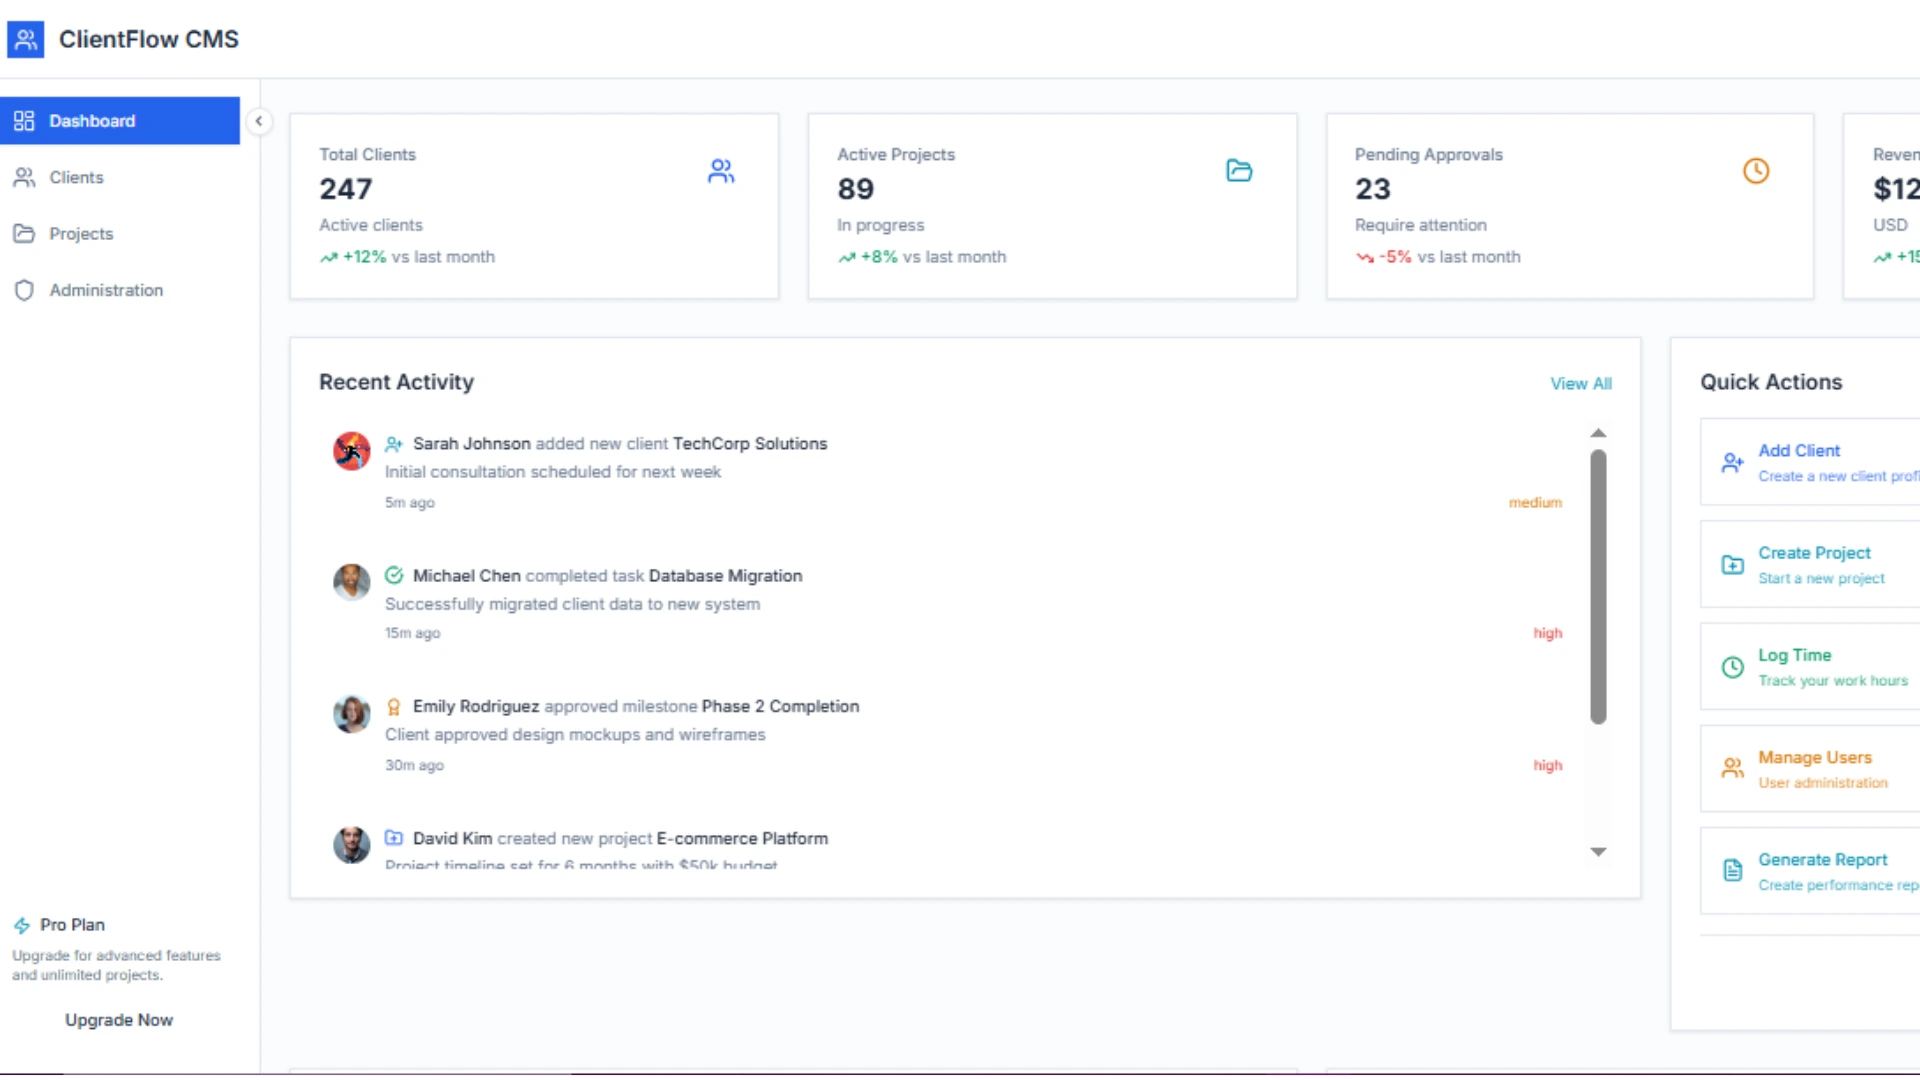
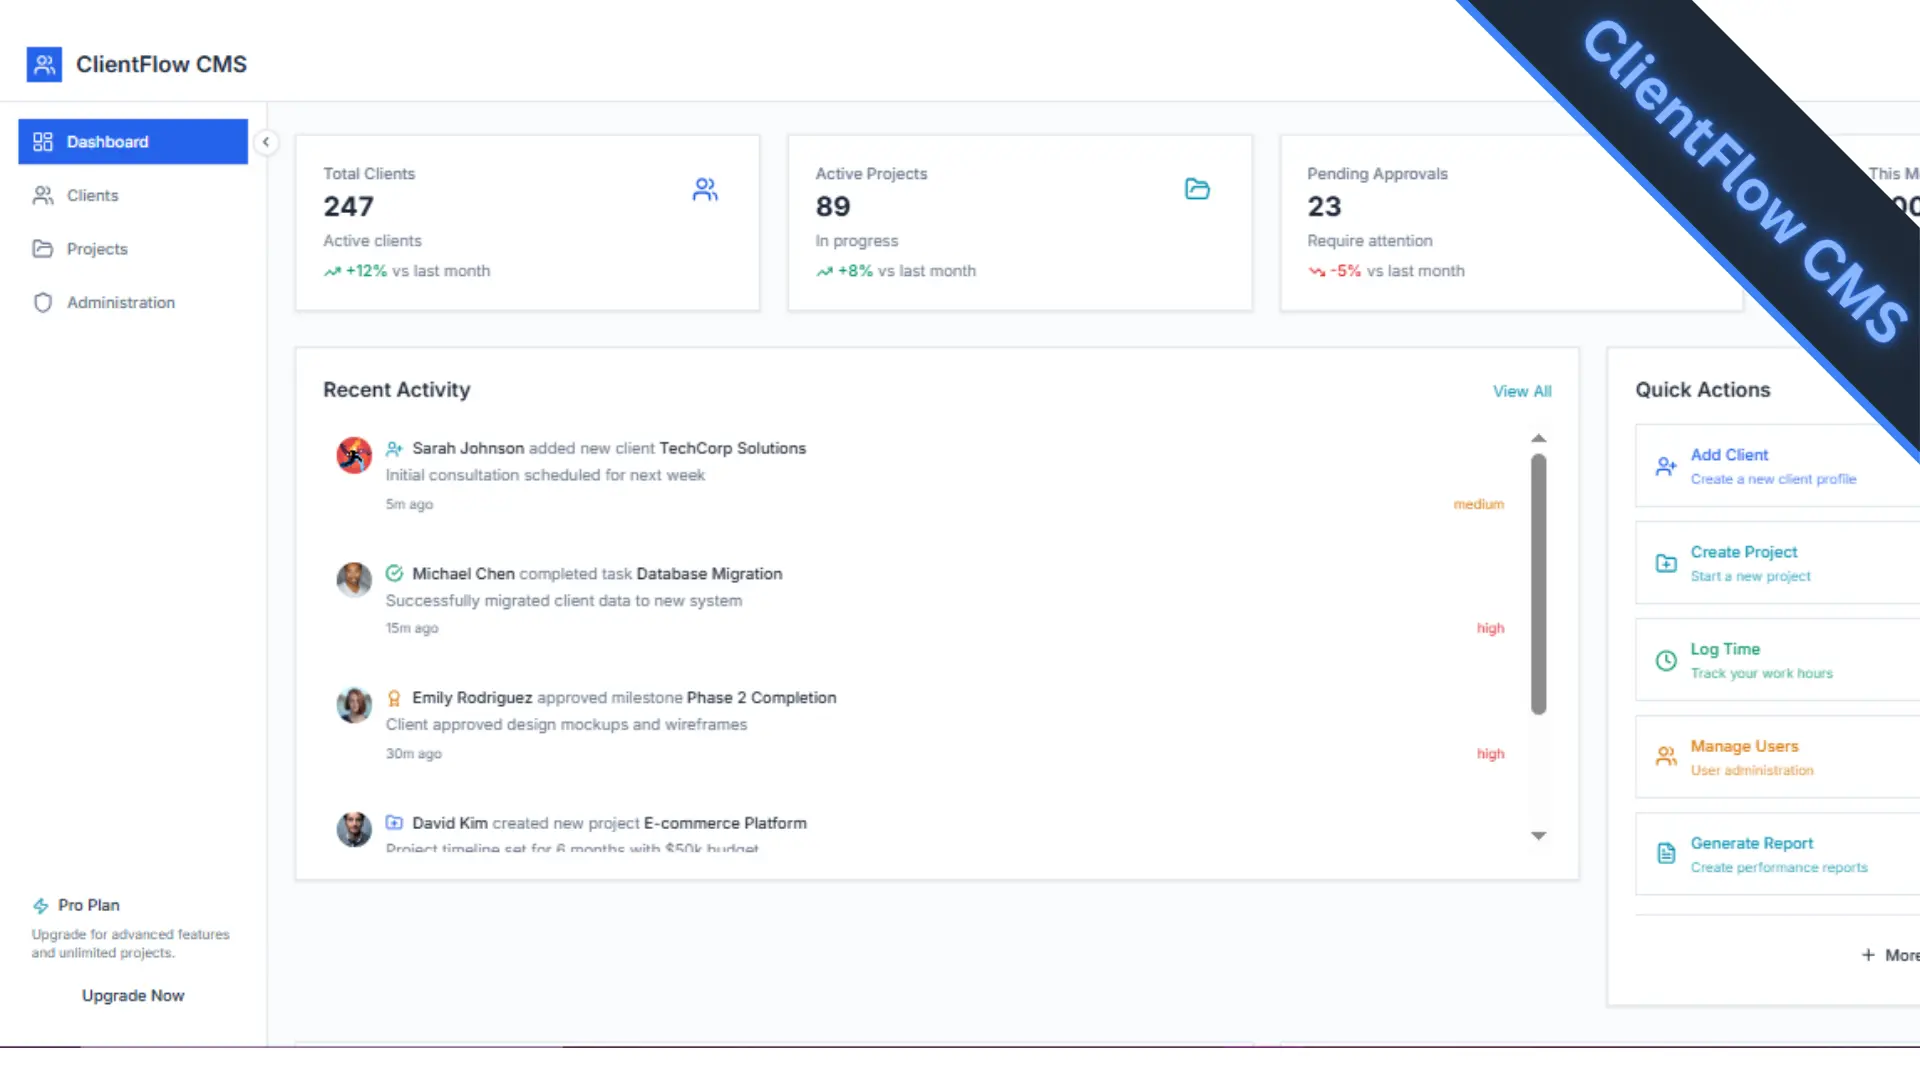
replaced all png with webp

diff --git a/index.html b/index.html
@@ -50,7 +50,7 @@
     <meta property="og:url" content="https://moreqasse.github.io/MyCV/">
     <meta property="og:title" content="Mohammed Reqasse - Network & Telecommunications Engineer">
     <meta property="og:description" content="CCNA Certified Network Engineer | Cybersecurity | Web Development | AI Integration. Founder of Devaxio.">
-    <meta property="og:image" content="https://moreqasse.github.io/MyCV/images/MR.png">
+    <meta property="og:image" content="https://moreqasse.github.io/MyCV/images/MR.webp">
     <meta property="og:image:width" content="1200">
     <meta property="og:image:height" content="630">
     <meta property="og:locale" content="en_US">
@@ -62,12 +62,12 @@
     <meta name="twitter:url" content="https://moreqasse.github.io/MyCV/">
     <meta name="twitter:title" content="Mohammed Reqasse - Network & Telecommunications Engineer">
     <meta name="twitter:description" content="CCNA Certified Network Engineer | Cybersecurity | Web Development | AI Integration">
-    <meta name="twitter:image" content="https://moreqasse.github.io/MyCV/images/MR.png">
+    <meta name="twitter:image" content="https://moreqasse.github.io/MyCV/images/MR.webp">
     
     <!-- Favicon -->
-    <link rel="icon" type="image/png" href="images/MR.png">
-    <link rel="apple-touch-icon" href="images/MR.png">
-    <link rel="shortcut icon" href="images/MR.png" type="image/png">
+    <link rel="icon" type="image/png" href="images/MR.webp">
+    <link rel="apple-touch-icon" href="images/MR.webp">
+    <link rel="shortcut icon" href="images/MR.webp" type="image/png">
     
     <!-- Preconnect for Performance -->
     <link rel="preconnect" href="https://fonts.googleapis.com">
@@ -86,7 +86,7 @@
         "@type": "Person",
         "name": "Mohammed Reqasse",
         "url": "https://moreqasse.github.io/MyCV/",
-        "image": "https://moreqasse.github.io/MyCV/images/MR.png",
+        "image": "https://moreqasse.github.io/MyCV/images/MR.webp",
         "jobTitle": "Network & Telecommunications Engineering Student",
         "worksFor": {
             "@type": "Organization",
@@ -113,7 +113,7 @@
     <!-- Page Loader -->
     <div class="page-loader" id="page-loader">
         <div class="loader-content">
-            <img src="images/MR.png" alt="MR Logo" class="loader-logo">
+            <img src="images/MR.webp" alt="MR Logo" class="loader-logo">
             <div class="loader-spinner"></div>
             <p class="loader-text">Loading...</p>
         </div>
@@ -122,7 +122,7 @@
     <!-- Navigation -->
     <nav class="navbar">
         <div class="nav-container">
-            <a href="#" class="nav-logo"><img src="images/MR.png" alt="MR Logo"></a>
+            <a href="#" class="nav-logo"><img src="images/MR.webp" alt="MR Logo"></a>
             <ul class="nav-menu">
                 <li><a href="#home" data-translate="nav_home">Home</a></li>
                 <li><a href="#about" data-translate="nav_about">About</a></li>
@@ -201,7 +201,7 @@
                     <div class="orb orb-3"></div>
                 </div>
                 <div class="hero-photo">
-                    <img src="images/profile.png" alt="Mohammed Reqasse" class="photo-img">
+                    <img src="images/profile.webp" alt="Mohammed Reqasse" class="photo-img">
                 </div>
                 <div class="floating-stats">
                     <div class="float-stat stat-1">
@@ -651,7 +651,7 @@
                 <!-- CAT8k·SYNC -->
                 <div class="project-card featured">
                     <div class="project-image">
-                        <img src="images/analytics_deep_full.png" alt="CAT8k·SYNC">
+                        <img src="images/analytics_deep_full.webp" alt="CAT8k·SYNC">
                         <div class="project-overlay">
                             <a href="https://github.com/MOREQASSE/CAT8k-SYNC" target="_blank" class="project-link"><i class="fab fa-github"></i></a>
                             <a href="https://cat8k.reqasse.workers.dev/" target="_blank" class="project-link"><i class="fas fa-external-link-alt"></i></a>
@@ -710,7 +710,7 @@
                 <!-- LEADFinder -->
                 <div class="project-card featured">
                     <div class="project-image">
-                        <img src="images/LEADFinder.png" alt="LEADFinder">
+                        <img src="images/LEADFinder.webp" alt="LEADFinder">
                         <div class="project-overlay">
                             <a href="https://github.com/MOREQASSE/leadfinder" target="_blank" class="project-link"><i class="fab fa-github"></i></a>
                             <a href="https://lead-finder.reqasse.workers.dev" target="_blank" class="project-link"><i class="fas fa-external-link-alt"></i></a>
@@ -826,7 +826,7 @@
                 <!-- RHEL Security -->
                 <div class="project-card">
                     <div class="project-image">
-                        <img src="images/RHEL System Security.png" alt="RHEL Security">
+                        <img src="images/RHEL System Security.webp" alt="RHEL Security">
                         <div class="project-overlay">
                             <a href="https://github.com/MOREQASSE/RHEL-System-Security" target="_blank" class="project-link"><i class="fab fa-github"></i></a>
                         </div>
@@ -877,7 +877,7 @@
                     <div class="github-preview">
                         <div class="gh-mini-profile">
                             <div class="gh-mini-avatar">
-                                <img src="images/github.png" alt="Mohammed Reqasse">
+                                <img src="images/github.webp" alt="Mohammed Reqasse">
                             </div>
                             <div class="gh-mini-info">
                                 <span class="gh-mini-name">MOREQASSE</span>
@@ -1371,7 +1371,7 @@
                 <div class="footer-grid">
                     <!-- Brand Column -->
                     <div class="footer-column footer-brand">
-                        <img src="images/MR.png" alt="MR Logo" class="footer-logo-img">
+                        <img src="images/MR.webp" alt="MR Logo" class="footer-logo-img">
                         <div class="footer-brand-text">
                             <div class="footer-brand-header">
                                 <span class="footer-name">Mohammed Reqasse</span>
@@ -1443,7 +1443,7 @@
                 <!-- Mobile layout (hidden on desktop) -->
                 <div class="footer-mobile">
                     <div class="fm-brand">
-                        <img src="images/MR.png" alt="MR" class="fm-logo">
+                        <img src="images/MR.webp" alt="MR" class="fm-logo">
                         <div class="fm-brand-info">
                             <span class="fm-name">Mohammed Reqasse</span>
                             <span class="fm-location"><i class="fas fa-map-marker-alt"></i> Safi, Morocco</span>

diff --git a/main.js b/main.js
@@ -1370,7 +1370,7 @@ function initWebPortfolioCarousel() {
                 { label: { en: 'Live Demo', fr: 'Démo Live', ar: 'عرض مباشر' }, url: 'https://demoweb.ifree.page/', primary: true },
                 { label: { en: 'Contact for Similar', fr: 'Contact pour similaire', ar: 'تواصل لمشروع مشابه' }, url: '#contact', primary: false }
             ],
-            image: 'images/Gym.png',
+            image: 'images/Gym.webp',
             alt: { en: 'Gym Nutrition Store', fr: 'Boutique Nutrition Sportive', ar: 'متجر التغذية الرياضية' }
         },
         {

diff --git a/README.md b/README.md
@@ -1,6 +1,6 @@
 <div align="center">
   <a href="https://moreqasse.work.gd/">
-    <img src="https://moreqasse.github.io/MyCV/images/MR.png" alt="Mohammed Reqasse Logo" width="120" />
+    <img src="https://moreqasse.github.io/MyCV/images/MR.webp" alt="Mohammed Reqasse Logo" width="120" />
   </a>
 
   # Hi there, I'm Mohammed Reqasse 👋
@@ -33,7 +33,7 @@
 
 </td>
 <td width="35%" align="center">
-  <img src="https://moreqasse.github.io/MyCV/images/profile.png" alt="Mohammed Reqasse Profile" width="220" style="border-radius: 50%; box-shadow: 0 4px 8px rgba(0,0,0,0.1);" />
+  <img src="https://moreqasse.github.io/MyCV/images/profile.webp" alt="Mohammed Reqasse Profile" width="220" style="border-radius: 50%; box-shadow: 0 4px 8px rgba(0,0,0,0.1);" />
 </td>
 </tr>
 </table>
